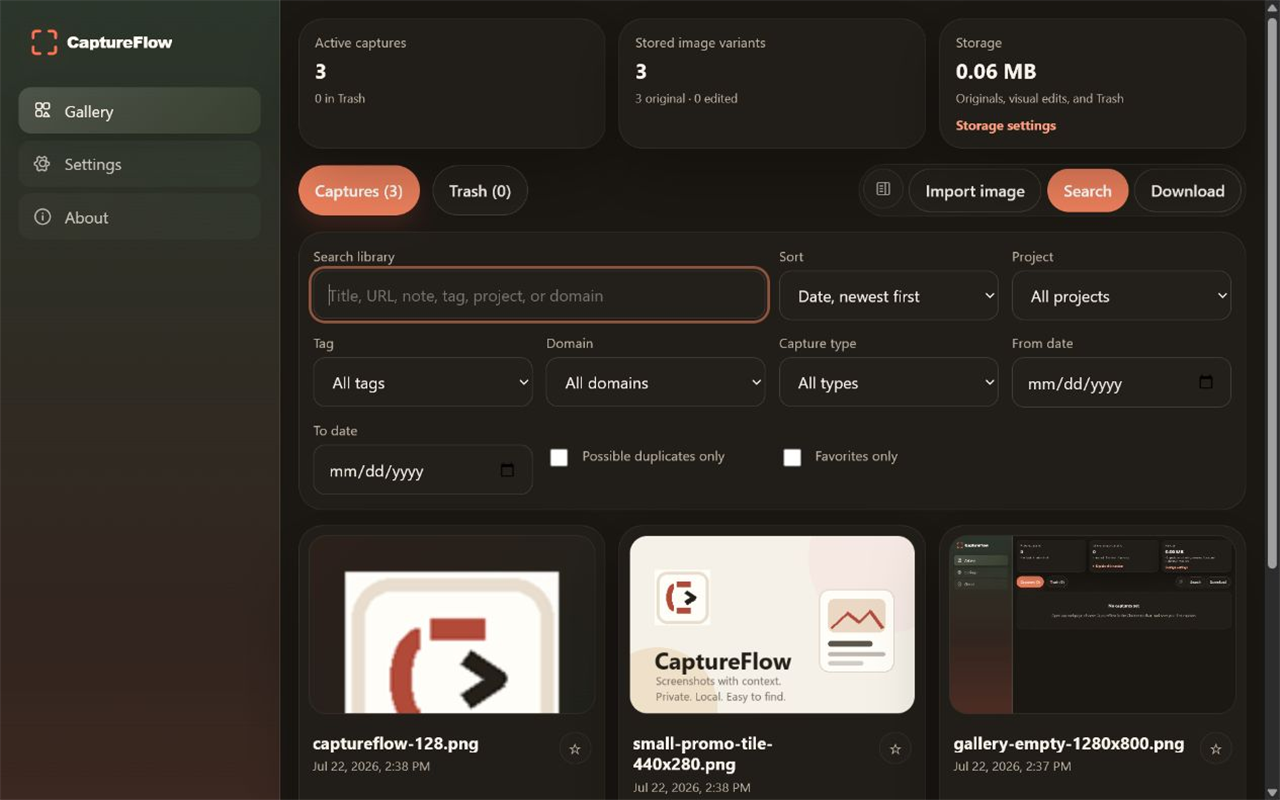
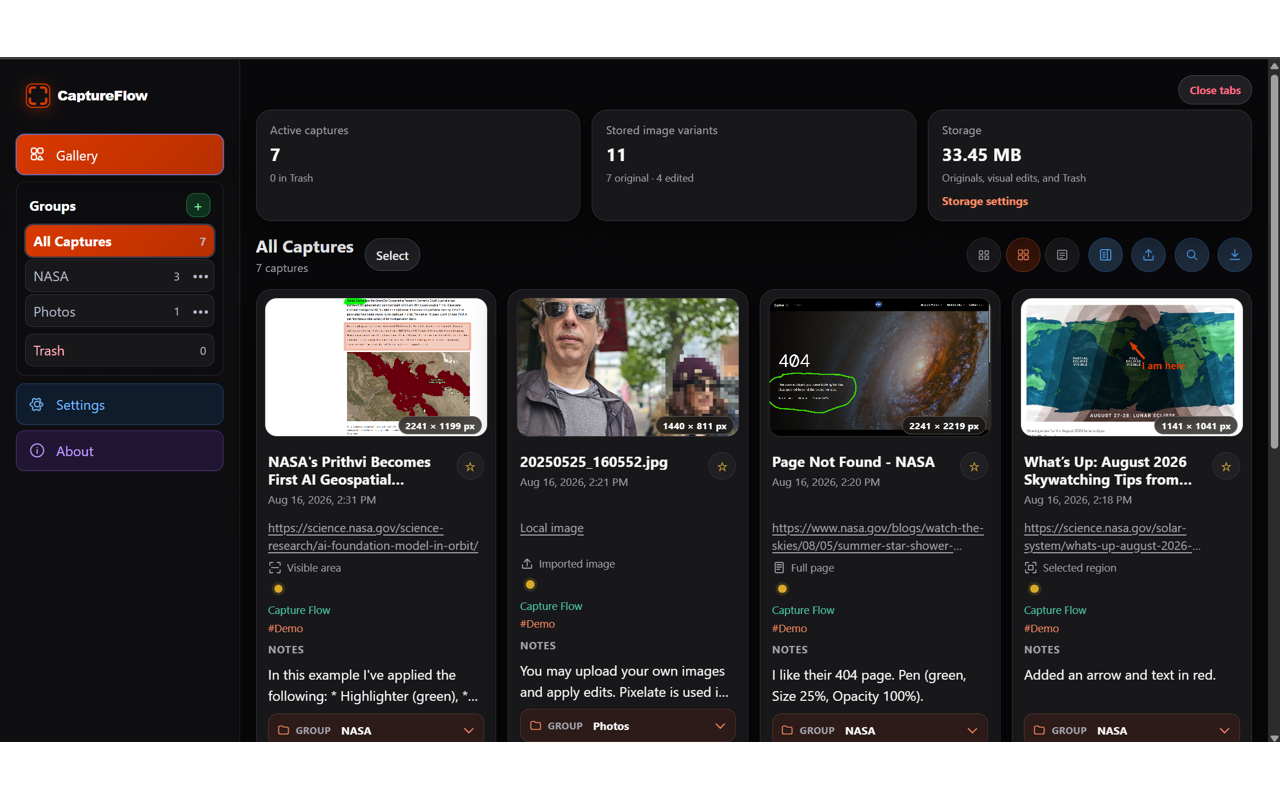
Update public CaptureFlow site for v0.2.0

diff --git a/docs/index.html b/docs/index.html
@@ -3,11 +3,11 @@
   <head>
     <meta charset="utf-8" />
     <meta name="viewport" content="width=device-width, initial-scale=1" />
-    <meta name="description" content="CaptureFlow is a private, local screenshot capture, annotation, and organization workflow for Chrome." />
+    <meta name="description" content="CaptureFlow 0.2.0 is a private, local screenshot capture, annotation, grouping, and organization workflow for Chrome." />
     <link rel="icon" href="captureflow-128.png" type="image/png" />
     <link rel="canonical" href="https://5c0ttp.github.io/captureflow/" />
     <link rel="stylesheet" href="styles.css" />
-    <title>CaptureFlow | Private Screenshot Workflow</title>
+    <title>CaptureFlow 0.2.0 | Private Screenshot Workflow</title>
   </head>
   <body>
     <a class="skip-link" href="#main">Skip to content</a>
@@ -25,12 +25,12 @@
     <main class="page-shell" id="main">
       <section class="product-hero">
         <div>
-          <p class="eyebrow">Private by design</p>
+          <p class="eyebrow">CaptureFlow 0.2.0 · Private by design</p>
           <h1>Capture screenshots.<br />Keep the context.</h1>
-          <p class="lede">CaptureFlow turns screenshots into a searchable local library with annotation, notes, tags, projects, exports, and optional Windows folder copies—without requiring an account or cloud service.</p>
+          <p class="lede">CaptureFlow turns screenshots and imported images into a searchable local library with annotation, notes, tags, projects, groups, downloads, and optional Windows backup copies—without requiring an account or cloud service.</p>
           <div class="button-row">
             <a class="primary-button" href="https://chromewebstore.google.com/detail/captureflow/hednpbkmifhjcpjfpncneleonhaknpdk?authuser=0&amp;hl=en">View in the Chrome Web Store</a>
-            <a class="secondary-button" href="https://github.com/5c0ttP/captureflow">Explore the product showcase</a>
+            <a class="secondary-button" href="https://github.com/5c0ttP/captureflow">View the public repository</a>
           </div>
         </div>
         <aside class="hero-card" aria-label="CaptureFlow privacy summary">
@@ -41,8 +41,29 @@
 
       <figure class="product-preview">
         <img src="product-gallery.png" alt="CaptureFlow searchable screenshot gallery" />
-        <figcaption>Search, filter, organize, and revisit captures from a local Chrome library.</figcaption>
+        <figcaption>CaptureFlow 0.2.0 groups, searches, filters, and organizes captures in a local Chrome library.</figcaption>
       </figure>
+
+      <section class="section" aria-labelledby="release-heading">
+        <p class="eyebrow">New in version 0.2.0</p>
+        <h2 id="release-heading">A faster, clearer local workflow.</h2>
+        <div class="card-grid feature-grid">
+          <article class="card"><span class="number">01</span><h3>Groups and autocomplete</h3><p>Create groups and quickly reuse group, project, and tag values from the Gallery or editor.</p></article>
+          <article class="card"><span class="number">02</span><h3>Improved editing</h3><p>Position and resize text, rectangles, and arrows before applying them without replacing the original image.</p></article>
+          <article class="card"><span class="number">03</span><h3>Longer page capture</h3><p>Capture substantially longer pages with improved handling for repeated fixed and sticky elements.</p></article>
+        </div>
+      </section>
+
+      <section class="section" aria-labelledby="tour-heading">
+        <p class="eyebrow">Product tour</p>
+        <h2 id="tour-heading">Capture, annotate, and find images again.</h2>
+        <div class="product-tour-grid">
+          <figure class="product-tour-card"><img src="capture-popup.png" alt="CaptureFlow popup with visible-area, full-page, and selected-region capture modes" /><figcaption>Start a visible-area, full-page, or selected-region capture.</figcaption></figure>
+          <figure class="product-tour-card"><img src="capture-editor.png" alt="CaptureFlow editor with local annotation tools" /><figcaption>Annotate locally while keeping the original image intact.</figcaption></figure>
+          <figure class="product-tour-card"><img src="capture-shapes.png" alt="CaptureFlow rectangle placement workflow" /><figcaption>Position shapes and adjust their appearance before applying them.</figcaption></figure>
+          <figure class="product-tour-card"><img src="capture-import.png" alt="Pixelation applied to an imported local image" /><figcaption>Import local images and obscure sensitive details with blur or pixelation.</figcaption></figure>
+        </div>
+      </section>
 
       <section class="section" aria-labelledby="features-heading">
         <p class="eyebrow">One connected workflow</p>
@@ -50,7 +71,7 @@
         <div class="card-grid feature-grid">
           <article class="card"><span class="number">01</span><h3>Capture and import</h3><p>Save the visible area, a selected region, a full page, or an existing local image.</p></article>
           <article class="card"><span class="number">02</span><h3>Annotate locally</h3><p>Crop, draw, highlight, add shapes and text, or obscure sensitive details.</p></article>
-          <article class="card"><span class="number">03</span><h3>Organize and export</h3><p>Add notes, tags, and projects, then search or export the records you need.</p></article>
+          <article class="card"><span class="number">03</span><h3>Organize and download</h3><p>Add notes, tags, projects, and groups, then search, filter, download, or move captures to Trash.</p></article>
         </div>
       </section>
 
@@ -58,7 +79,7 @@
         <div>
           <p class="eyebrow">Official resources</p>
           <h2 id="resources-heading">Everything in one place.</h2>
-          <p>Get help, understand local data handling, troubleshoot common issues, or review the engineering portfolio.</p>
+          <p>Get help, understand local data handling, troubleshoot common issues, or review CaptureFlow's public product information.</p>
         </div>
         <div class="resource-links">
           <a href="support.html"><strong>Support</strong><span>Prepare a privacy-conscious support request</span></a>
@@ -68,6 +89,6 @@
         </div>
       </section>
     </main>
-    <footer class="site-footer"><div class="footer-shell"><p>© 2026 Scott Patterson. All rights reserved. CaptureFlow was created and developed by Scott Patterson.</p><p><a href="https://github.com/5c0ttP/captureflow">Product showcase</a> · <a href="privacy-policy.html">Privacy</a> · <a href="support.html">Support</a></p></div></footer>
+    <footer class="site-footer"><div class="footer-shell"><p>© 2026 Scott Patterson. All rights reserved. CaptureFlow was created and developed by Scott Patterson.</p><p><a href="https://github.com/5c0ttP/captureflow">Public repository</a> · <a href="privacy-policy.html">Privacy</a> · <a href="support.html">Support</a></p></div></footer>
   </body>
 </html>

diff --git a/docs/styles.css b/docs/styles.css
@@ -213,6 +213,10 @@ article.policy p, article.policy li { color: var(--muted); line-height: 1.7; }
 .product-preview { margin: 4rem 0 0; overflow: hidden; border: 1px solid var(--border); border-radius: 18px; background: var(--panel); box-shadow: 0 18px 50px rgba(64, 43, 25, 0.1); }
 .product-preview img { display: block; width: 100%; height: auto; }
 .product-preview figcaption { padding: 0.9rem 1.1rem; color: var(--muted); font-size: 0.9rem; }
+.product-tour-grid { display: grid; grid-template-columns: 1fr 1fr; gap: 1rem; margin-top: 1.5rem; }
+.product-tour-card { margin: 0; overflow: hidden; border: 1px solid var(--border); border-radius: 16px; background: var(--panel); box-shadow: 0 14px 38px rgba(64, 43, 25, 0.08); }
+.product-tour-card img { display: block; width: 100%; height: auto; }
+.product-tour-card figcaption { padding: 0.9rem 1rem; color: var(--muted); font-size: 0.9rem; line-height: 1.5; }
 .feature-grid { margin-top: 1.5rem; }
 .feature-grid .card { min-height: 200px; }
 .feature-grid .card h3 { margin: 1.2rem 0 0.6rem; font-size: 1.25rem; }
@@ -225,7 +229,7 @@ article.policy p, article.policy li { color: var(--muted); line-height: 1.7; }
 .resource-links span { color: var(--muted); font-size: 0.9rem; line-height: 1.4; }
 
 @media (max-width: 760px) {
-  .product-hero, .resource-panel { grid-template-columns: 1fr; }
+  .product-hero, .resource-panel, .product-tour-grid { grid-template-columns: 1fr; }
   .resource-links { grid-template-columns: 1fr; }
   .product-hero h1 { font-size: clamp(2.8rem, 14vw, 4.5rem); }
 }

diff --git a/docs/support.html b/docs/support.html
@@ -41,11 +41,11 @@
       </section>
       <section class="section">
         <h2>Where to send it</h2>
-        <p>After CaptureFlow is published, open its Chrome Web Store listing and use the <strong>Support</strong> section. A direct link will be added here when the Store item is live. No credentials are required because CaptureFlow has no account system.</p>
+        <p>Open the <a href="https://chromewebstore.google.com/detail/captureflow/hednpbkmifhjcpjfpncneleonhaknpdk">CaptureFlow Chrome Web Store listing</a> and use its <strong>Support</strong> section. No CaptureFlow credentials are required because the extension has no account system.</p>
       </section>
       <section class="section">
         <h2>What support can access</h2>
-        <p>Support cannot remotely inspect or recover your CaptureFlow library. Your screenshots, imported images, edits, notes, tags, projects, and settings remain in your Chrome profile unless you explicitly create and share a copy yourself.</p>
+        <p>Support cannot remotely inspect or recover your CaptureFlow library. Your screenshots, imported images, edits, notes, tags, groups, projects, and settings remain in your Chrome profile unless you explicitly create and share a copy yourself.</p>
       </section>
     </main>
     <footer class="site-footer"><div class="footer-shell"><p>CaptureFlow support information</p><p><a href="privacy-policy.html">Privacy policy</a></p></div></footer>

diff --git a/docs/troubleshooting.html b/docs/troubleshooting.html
@@ -32,7 +32,7 @@
         <article class="trouble"><h2>The Windows folder is disconnected</h2><ol><li>Open CaptureFlow Settings.</li><li>Reconnect the optional Windows backup folder and approve read/write access.</li><li>If the folder was moved or renamed, select its new location.</li><li>Retry any entries marked as pending or failed.</li></ol></article>
         <article class="trouble"><h2>Library data is missing after uninstalling or clearing storage</h2><p>CaptureFlow’s working library is stored in the current Chrome profile. Uninstalling the extension, clearing its data, or resetting the profile removes that storage. Downloads and folder copies cannot currently restore the library.</p></article>
       </section>
-      <section class="section"><h2>Still need help?</h2><p>Review <a href="support.html">how to prepare a support request</a>, then use the Support section on CaptureFlow’s Chrome Web Store listing after publication.</p></section>
+      <section class="section"><h2>Still need help?</h2><p>Review <a href="support.html">how to prepare a support request</a>, then use the Support section on CaptureFlow’s Chrome Web Store listing.</p></section>
     </main>
     <footer class="site-footer"><div class="footer-shell"><p>CaptureFlow support information</p><p><a href="faq.html">Frequently asked questions</a></p></div></footer>
   </body>

diff --git a/docs/privacy-policy.html b/docs/privacy-policy.html
@@ -25,7 +25,7 @@
         <p>CaptureFlow is a Chrome extension for capturing, importing, annotating, organizing, and retrieving images locally. Privacy is part of its core design.</p>
 
         <h2>Information CaptureFlow handles</h2>
-        <p>When you choose to capture a page, CaptureFlow handles the screenshot image, page and tab titles, page URL and domain, capture date, and browser dimensions. When you import an image, CaptureFlow handles the local PNG, JPEG, or WebP file you selected and its filename, dimensions, and file type. CaptureFlow also handles the notes, tags, project names, favorites, and visual edits you add.</p>
+        <p>When you choose to capture a page, CaptureFlow handles the screenshot image, page and tab titles, page URL and domain, capture date, and browser dimensions. When you import an image, CaptureFlow handles the local PNG, JPEG, or WebP file you selected and its filename, dimensions, and file type. CaptureFlow also handles the notes, tags, group and project names, favorites, and visual edits you add.</p>
         <p>If you choose a Windows folder for local copies, Chrome provides CaptureFlow with a permission-scoped directory handle and folder name. CaptureFlow does not learn the folder's full system path.</p>
 
         <h2>How information is used</h2>

diff --git a/README.md b/README.md
@@ -1,93 +1,151 @@
 # CaptureFlow
-Link: https://chromewebstore.google.com/detail/captureflow/hednpbkmifhjcpjfpncneleonhaknpdk
 
-CaptureFlow is a privacy-first Chrome extension that turns screenshots into a searchable, locally stored work library. It combines capture, annotation, organization, export, and optional Windows folder mirroring without requiring an account, backend, analytics service, or cloud sync.
+<p align="center">
+  <strong>Capture now. Find it later.</strong><br />
+  A private, searchable screenshot and image workspace for Chrome.
+</p>
 
-> This is a portfolio showcase. The production source code and Chrome Web Store build pipeline are maintained in a private repository.
+<p align="center">
+  <code>Current release: v0.2.0</code> · Chrome 116+ · No account · No cloud sync
+</p>
 
-![CaptureFlow product walkthrough](assets/captureflow-demo.gif)
+<p align="center">
+  <a href="https://chromewebstore.google.com/detail/captureflow/hednpbkmifhjcpjfpncneleonhaknpdk">Chrome Web Store</a> ·
+  <a href="https://5c0ttp.github.io/captureflow/">Website</a> ·
+  <a href="https://5c0ttp.github.io/captureflow/support.html">Support</a> ·
+  <a href="https://5c0ttp.github.io/captureflow/privacy-policy.html">Privacy</a>
+</p>
 
-## Product highlights
+![CaptureFlow 0.2.0](assets/captureflow-hero.png)
 
-- Capture the visible viewport, a selected region, or a stitched full page
-- Import PNG, JPEG, and WebP images into the same workflow
-- Annotate with crop, pen, highlighter, shapes, arrows, text, blur, and pixelation
-- Organize captures with notes, tags, projects, favorites, search, filters, and duplicate detection
-- Export individual images, Markdown, JSON, CSV, and multi-capture ZIP archives
-- Mirror readable copies to a user-selected Windows folder while keeping IndexedDB authoritative
-- Recover deleted captures from Trash before permanent removal
-- Use a compact Chrome side-panel gallery or the full management interface
+CaptureFlow captures webpages or imports local images, opens them in a non-destructive annotation editor, and keeps the images with searchable notes, tags, projects, and groups in the current Chrome profile.
+
+This is CaptureFlow's official public repository for product information, screenshots, support resources, privacy documentation, release information, and public issue tracking. The production extension source and store build pipeline are not distributed here.
+
+## What's new in v0.2.0
+
+- Redesigned Dark and Light themes, plus System and Original themes
+- Longer full-page captures with improved handling of repeated fixed and sticky page elements
+- User-created groups in the full Gallery and compact side-panel Gallery
+- Autocomplete for groups, projects, and tags with keyboard-first navigation
+- Improved text, rectangle, and arrow placement and adjustment
+- Movable, aspect-ratio-preserving text and an Apply workflow for rectangles and arrows
+- Adjustable arrow size, color, and opacity with a sharper arrowhead
+- Non-destructive editing from either the original or edited image
+- Automatically saved preferences with visible save status
+- Updated icon, popup, sidebar, and higher-contrast controls
 
 ## Product tour
 
-| Capture | Searchable gallery |
+| Capture from the popup | Search and organize |
 | --- | --- |
-| ![Capture modes](assets/capture-modes.png) | ![Searchable gallery](assets/gallery.png) |
+| ![CaptureFlow 0.2.0 popup with visible-area, full-page, and selected-region capture modes](assets/capture-modes.png) | ![CaptureFlow 0.2.0 Gallery with groups, search, filters, and locally stored captures](assets/gallery.png) |
 
-| Local editor | Storage controls |
+| Annotate locally | Position shapes before applying |
 | --- | --- |
-| ![Local image editor](assets/editor.png) | ![Local storage settings](assets/storage.png) |
+| ![CaptureFlow 0.2.0 editor with crop, pen, highlighter, shape, text, blur, and pixelation tools](assets/editor.png) | ![CaptureFlow 0.2.0 rectangle placement workflow](assets/shape-placement.png) |
 
-## Architecture
+| Import and pixelate local images |
+| --- |
+| ![CaptureFlow 0.2.0 pixelation applied to an imported image](assets/import.png) |
+
+## What CaptureFlow does
+
+### Capture and import
+
+- Capture the visible area, draw a selected region, or stitch a full scrolling page
+- Import PNG, JPEG, and WebP images
+- Open new captures and imports directly in the local editor
+- Keep original and edited image variants separately in IndexedDB
+
+### Annotate
+
+- Crop, pen, highlighter, rectangle, arrow, text, blur, and pixelation tools
+- Undo, redo, reset, and adjustable tool color, size, and opacity where applicable
+- Move and resize text, rectangles, and arrows before committing them
+- Re-edit from the original or latest edited image without overwriting the original
+- Use an always-available web-safe font set without installed-font permission
+
+### Organize and find
+
+- Search page titles, URLs, domains, notes, tags, projects, and groups
+- Filter by group, project, tag, domain, date, capture type, favorite, or possible duplicate
+- Sort by capture date, title, or domain
+- Create, rename, and delete groups; move one or many captures between them
+- Add notes, projects, tags, and favorites
+- Choose compact, standard, or expanded Gallery cards
+- Use the full Gallery in a tab or the compact Gallery in Chrome's side panel
+
+### Download, back up, and recover
+
+- Download original or edited PNG copies
+- Download selected captures or the full active library as a ZIP with JSON metadata
+- Download library metadata as JSON or copy an individual capture summary as Markdown
+- Optionally write readable PNG, JSON, and Markdown backup copies to a Windows folder
+- Move deleted captures to Trash, then restore them or permanently empty Trash
+- Detect likely duplicates with an approximate average-hash comparison
+
+## Local-first architecture
 
 ```mermaid
 flowchart LR
-    U["User action"] --> P["Chrome popup / commands"]
+    U["User action"] --> P["Chrome popup or commands"]
     P --> C["Capture coordinator"]
     C --> B["Manifest V3 service worker"]
     C --> E["Local image editor"]
-    E --> D["IndexedDB library"]
-    D --> G["Gallery, search, detail views"]
-    D --> X["PNG / JSON / CSV / ZIP exports"]
-    D --> M["Optional Windows folder mirror"]
+    E --> D["IndexedDB working library"]
+    D --> G["Gallery, detail, and side-panel views"]
+    D --> X["PNG, JSON, and ZIP downloads"]
+    D --> K["Markdown clipboard summaries"]
+    D --> M["Optional Windows backup copies"]
 
     classDef local fill:#e8f5ee,stroke:#287a52,color:#153c2a;
     class D,E,G local;
 ```
 
-The browser database is the source of truth. Downloads and Explorer mirror files are deliberately treated as copies, which keeps storage ownership and deletion behavior predictable. Capture work is split between the user-facing surfaces and a Manifest V3 service worker, with shared TypeScript modules defining domain behavior.
+The IndexedDB library is the source of truth. Downloads, ZIP exports, clipboard content, and optional Windows folder files are one-way copies. CaptureFlow cannot currently restore its working library from those files.
 
-## Technology stack
+CaptureFlow has no backend, account system, analytics, advertising, cloud upload, or remote image processing.
 
-- TypeScript with strict compiler settings
-- React 18
+## Technology
+
+- TypeScript and React 18
 - Chrome Extension Manifest V3
 - Vite and CRXJS
 - IndexedDB and the File System Access API
 - Canvas-based image editing
 - Node's built-in test runner with `fake-indexeddb`
-- GitHub Actions for automated verification
 
-## Engineering practices demonstrated
+## Chrome permissions
 
-- Permission-minimized browser-extension design with optional host access
-- Transactional local persistence and explicit Trash lifecycle
-- Separation between authoritative records and exported copies
-- Unit and integration coverage for capture, storage, editor geometry, exports, and browser surfaces
-- Reproducible store packaging with manifest and remote-code auditing
-- Release checklists, privacy disclosures, reviewer instructions, and store listing documentation
-- Issue-driven planning, milestone tracking, pull-request review, and tagged releases
+- `activeTab`: capture the active page after a user starts a capture
+- `scripting`: read page metadata, show region selection, and scroll pages for full-page capture
+- `downloads`: save user-requested PNG, JSON, and ZIP files
+- `sidePanel`: display the compact Gallery beside the current page
+- Optional `<all_urls>` host access: keep user-initiated capture available after switching tabs in the side panel; it is not granted at installation
 
-## Representative code
+CaptureFlow does not request browsing-history, account, analytics, or `storage` permissions.
 
-The [`samples`](samples/) directory contains small, portfolio-safe excerpts showing the project’s domain modeling and collection-query approach. These samples are intentionally incomplete and cannot be used to reconstruct or build CaptureFlow.
+## Install and support
 
-- [`capture-model.ts`](samples/capture-model.ts) — representative domain types and storage boundaries
-- [`collection-query.ts`](samples/collection-query.ts) — deterministic filtering and sorting example
+Install CaptureFlow from the [Chrome Web Store](https://chromewebstore.google.com/detail/captureflow/hednpbkmifhjcpjfpncneleonhaknpdk).
 
-## Installation overview
-
-CaptureFlow is distributed as a packaged Chrome extension. A release build is compiled, audited for disallowed remote code, packaged with its Manifest V3 metadata and icons, then submitted to the Chrome Web Store. The complete source and store-build scripts are not distributed from this showcase.
-
-For product support and privacy information:
-
-- [CaptureFlow support](https://5c0ttp.github.io/captureflow/support.html)
+- [Product website](https://5c0ttp.github.io/captureflow/)
+- [Support](https://5c0ttp.github.io/captureflow/support.html)
+- [Troubleshooting](https://5c0ttp.github.io/captureflow/troubleshooting.html)
+- [Frequently asked questions](https://5c0ttp.github.io/captureflow/faq.html)
 - [Privacy policy](https://5c0ttp.github.io/captureflow/privacy-policy.html)
 
-## Project status
+## Current limitations
 
-CaptureFlow is under active private development. Public issues and milestones in this repository document product-level planning and engineering decisions without exposing proprietary implementation details.
+- Full-page output is capped at 20,000 pixels on either dimension and 100 million output pixels; larger pages are downscaled
+- Sticky content, lazy-loaded content, nested scrollers, and scroll animations can still produce imperfect full-page stitches
+- Duplicate detection is approximate
+- ZIP and JSON library import/restore are not implemented
+- Windows backup is one-way and cannot rebuild the in-app library automatically
+- There is no cloud sync, team sharing, account, or backend
+- Clearing Chrome extension data can permanently remove the working library
 
 ## License
 
-This repository is source-available for portfolio evaluation only and is **not open source**. All rights are reserved. See the [CaptureFlow Portfolio License](LICENSE).
+CaptureFlow's name, branding, screenshots, documentation, and other public materials remain proprietary. All rights are reserved. See [LICENSE](LICENSE).
